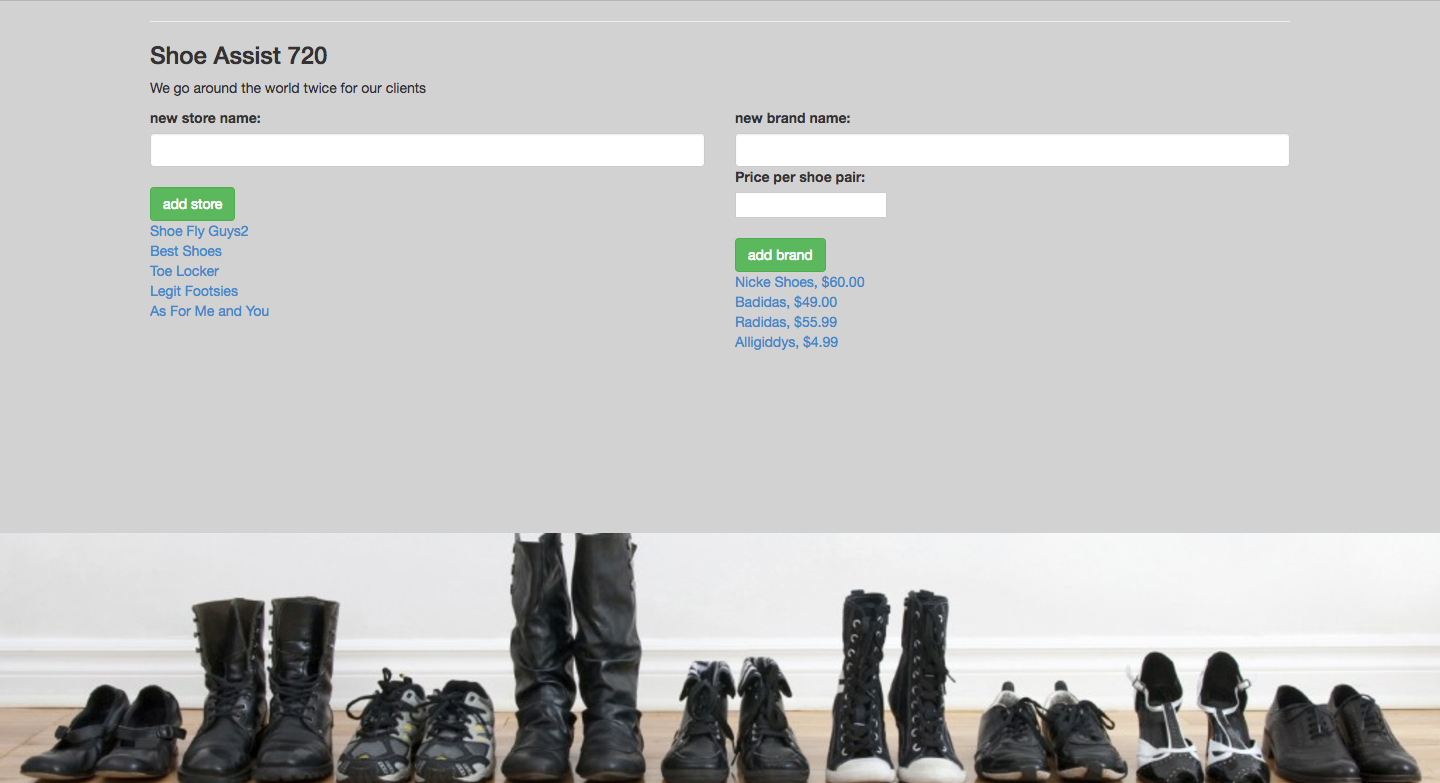
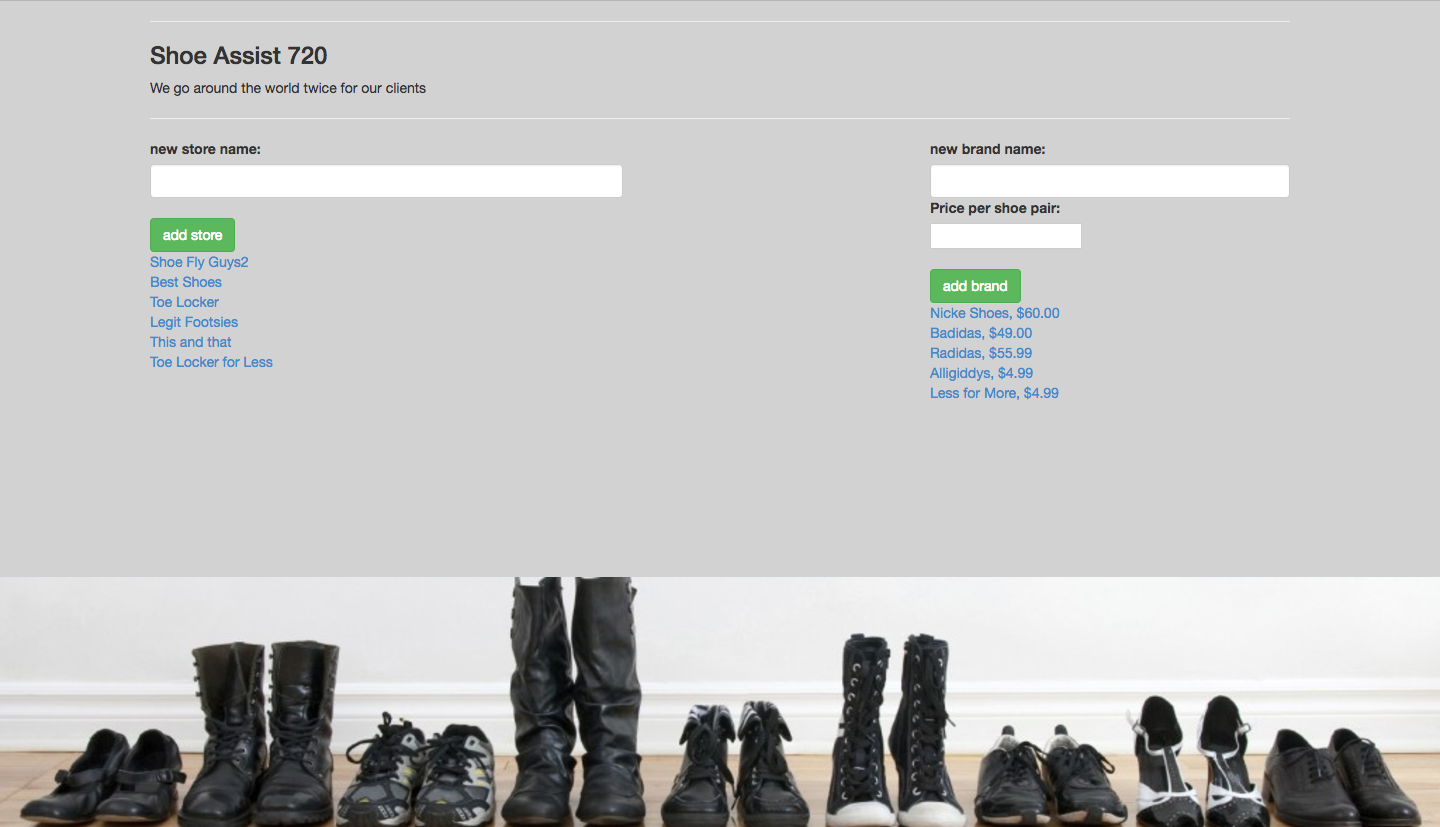
update readme screenshot to reflect changes in website appearance. add titlecase method to both classes

Changed region(s): [[0.0938, 0.0613, 0.9062, 0.4904], [0.0, 0.6743, 1.0, 0.9808]]

diff --git a/lib/store.rb b/lib/store.rb
@@ -25,11 +25,11 @@ class Brand < ActiveRecord::Base
 
 
   def titlecase
-    words = self.name.split(" ")
-    words.each do |word|
-      word.capitalize!
-    end
-    self.name = words.join(" ")
+    noncaps = ["and", "as", "at", "but", "buy", "for", "from", "if", "in", "into", "is", "like", "near", "nor", "of", "off", "on", "once", "onto", "or", "over", "past", "so", "than", "that", "till", "to", "up", "upon", "with", "when", "yet"]
+    new_name = self.name.split(' ')
+      .each{|word| word.capitalize! if ! noncaps.include? word }
+      .join(' ')
+    self.name = new_name
   end
 
   # method to change price from fixnum/float style into currency style. method is run twice by app.rb upon checking for errors (see: if @brand.save), so method needs to only run for inputs where it has not already been applied
